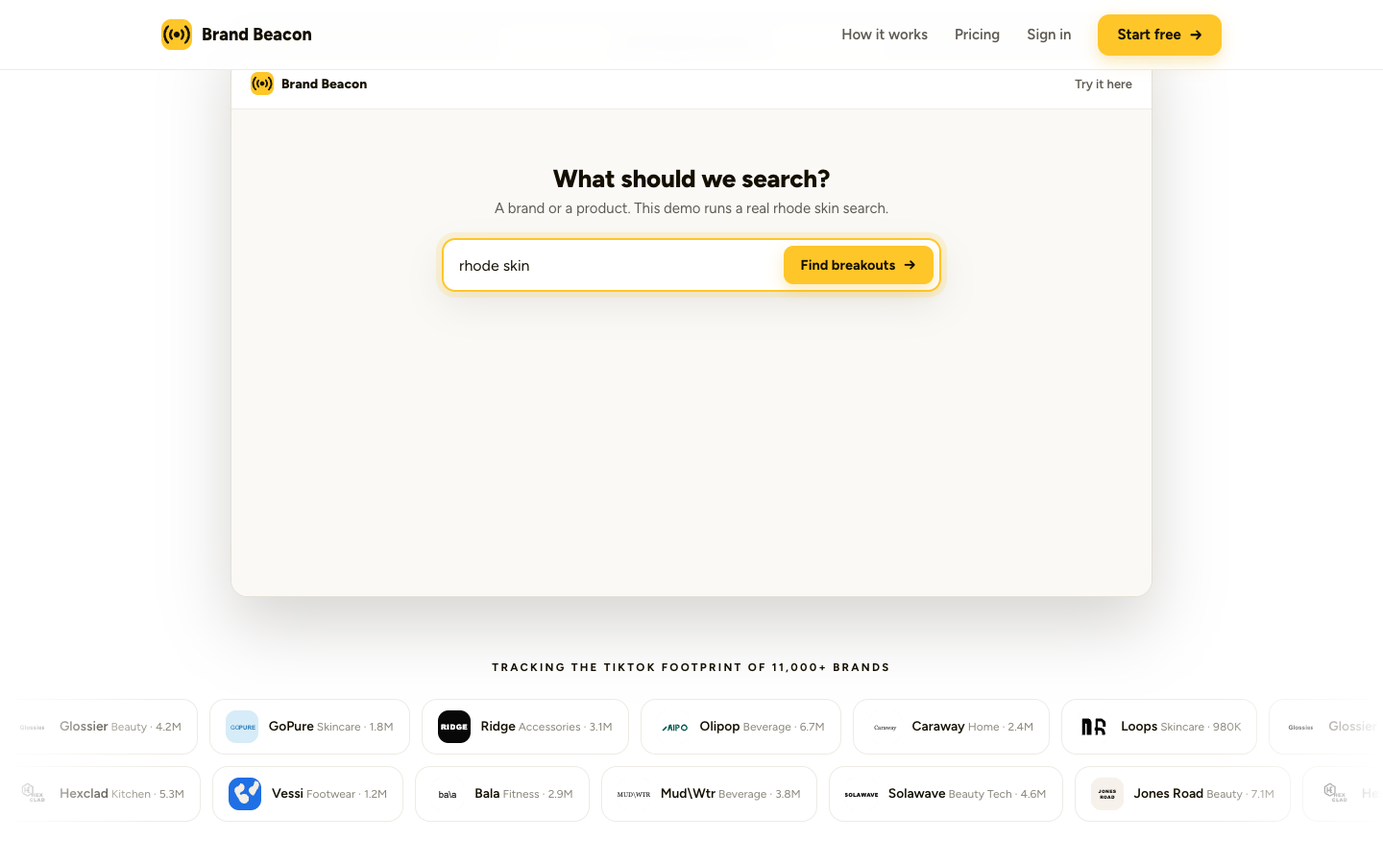
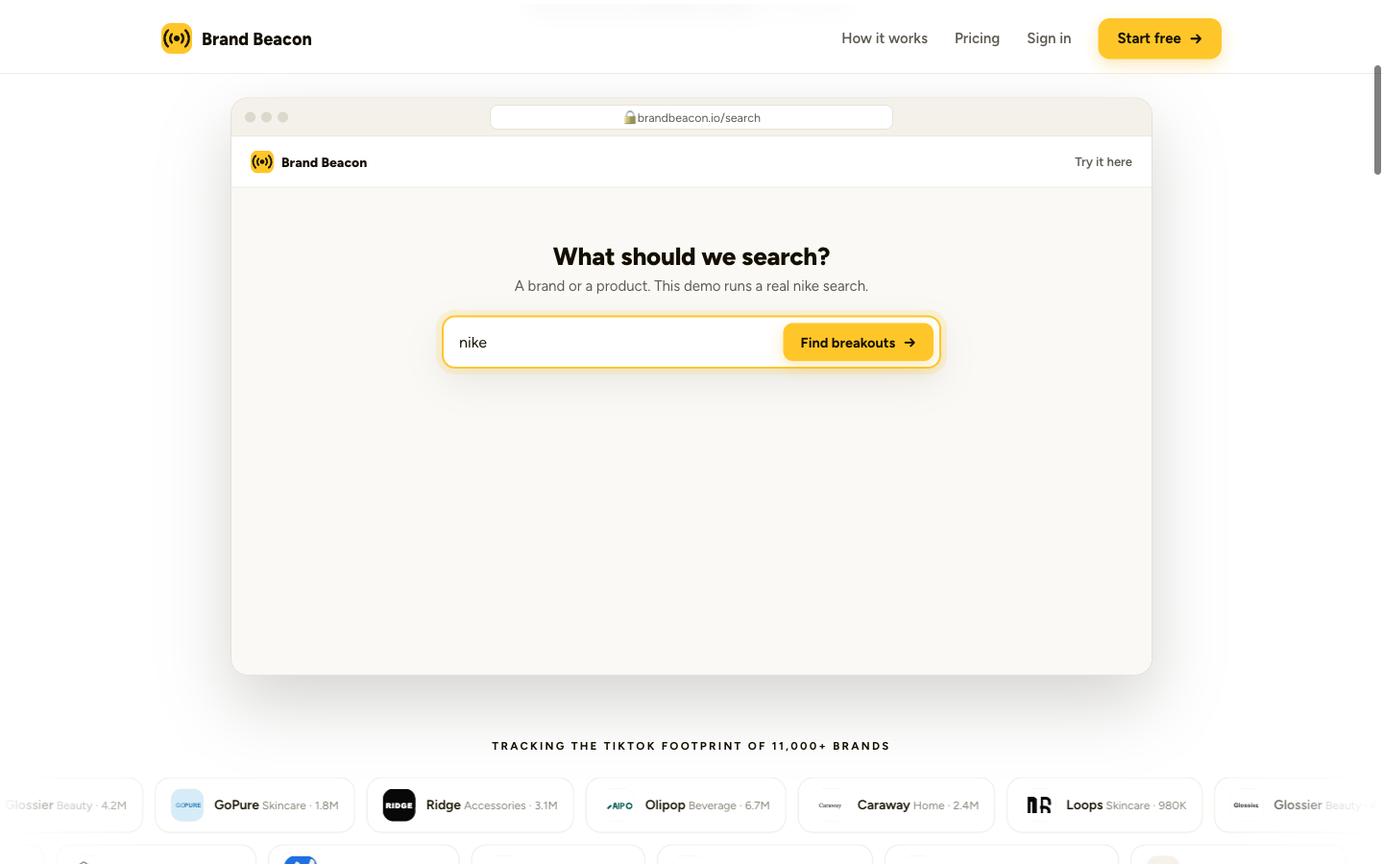
Sales page mock: Ivan's 15 Oct notes. Demo is now a real nike search led by @natali.gogaladze (7.2M views, 1.7K followers, 5.1K×), Analyze video plays the live processing state then opens her full saved analysis (Why it worked, What could be improved, What you should do next, Hook tab), shots retake

diff --git a/sales-page/index.html b/sales-page/index.html
@@ -463,6 +463,7 @@ body.notes .vbelow{display:block}
 .lc-who{display:flex;gap:9px;align-items:center}
 .lc-av{width:30px;height:30px;border-radius:50%;object-fit:cover;background:#f2dcc8;flex:0 0 auto}
 .lc-who b{display:block;font-size:13.5px;font-weight:800}
+.lc-who>span:nth-child(2){min-width:0}.lc-who b{overflow:hidden;text-overflow:ellipsis;white-space:nowrap}
 .lc-who small{display:block;font-size:11.5px;color:var(--ink3)}
 .lc-dt{margin-left:auto;align-self:flex-start;font-size:11.5px;color:var(--ink3);white-space:nowrap}
 .lc-cp{font-size:12.5px;line-height:1.45;display:-webkit-box;-webkit-line-clamp:2;-webkit-box-orient:vertical;overflow:hidden}
@@ -482,6 +483,7 @@ body.notes .vbelow{display:block}
 /* live video analysis */
 .an{display:grid;grid-template-columns:240px 1fr;gap:20px;padding:18px 20px 24px;align-items:start}
 .an-side{display:flex;flex-direction:column;gap:8px}
+.an-side .lc-dt{display:none}
 .an-ok{height:38px;border:1px solid var(--line);background:#fff;border-radius:12px;display:flex;align-items:center;justify-content:center;gap:7px;font-weight:700;font-size:13.5px}
 .an-ok svg{color:#2e8b57}
 .an-sh{height:40px;background:var(--ink);color:#fff;border-radius:12px;display:flex;align-items:center;justify-content:center;gap:8px;font-weight:600;font-size:13.5px}
@@ -510,6 +512,40 @@ body.notes .vbelow{display:block}
 .an-fade{position:relative;max-height:300px;overflow:hidden}
 .an-fade:after{content:"";position:absolute;left:0;right:0;bottom:0;height:46px;background:linear-gradient(rgba(255,255,255,0),#fff)}
 .an-gate{text-align:center;padding:26px 18px}
+/* analysis: processing (live: Analyzing video... on the card, Analyzing… in the panel) */
+@keyframes spin{to{transform:rotate(360deg)}}
+.ring{width:14px;height:14px;flex:0 0 auto;border-radius:50%;border:2px solid rgba(154,107,0,.3);border-top-color:#9a6b00;animation:spin .8s linear infinite}
+.lc-btn.busy{background:#fff8e6;color:#9a6b00;pointer-events:none}
+.an-run{height:38px;background:#fff8e6;color:#9a6b00;border-radius:12px;display:flex;align-items:center;justify-content:center;gap:8px;font-weight:700;font-size:13.5px}
+.an-proc{border:1px solid #ddd6ca;background:#fffdf9;border-radius:14px;padding:16px 18px}
+.an-proc b{display:block;font-size:11.5px;font-weight:700;letter-spacing:.12em;text-transform:uppercase;color:#8c6b10}
+.an-proc p{margin-top:6px;font-size:13.5px;line-height:1.55;color:#696257}
+.an-tabs.off{opacity:.55;pointer-events:none}
+.an-in{animation:fade .35s ease both}
+/* analysis: full structure as in the live app */
+.an-it .n.bad{background:#fdece4;color:#c2410c}
+.an-it .n.go{background:#e9f5ee;color:#1f7a4d}
+.an-foot{font-size:12px;font-style:italic;color:var(--ink3);margin-top:12px}
+.an-tr{display:flex;gap:10px;align-items:baseline;margin-top:10px;font-size:13px}
+.an-tr span{color:var(--ink3);font-variant-numeric:tabular-nums}
+.an-tr mark{background:var(--ysoft);border-radius:6px;padding:3px 7px;color:var(--ink)}
+.an-hook{align-items:flex-start}
+.an-hook .ht{position:relative;flex:0 0 auto}
+.an-hook .ht small{position:absolute;left:4px;bottom:4px;font-size:9.5px;font-weight:700;color:#fff;text-shadow:0 1px 2px rgba(0,0,0,.6)}
+.an-pat{display:flex;flex-wrap:wrap;gap:6px;margin-top:8px}
+.an-pat span{font-size:11.5px;font-weight:700;color:var(--ink2);border:1px solid var(--line);background:#f6f5f1;border-radius:7px;padding:3px 8px}
+.an-pat span:first-child{background:var(--ysoft);border-color:#f2dc95;color:var(--brown)}
+.an-bar{display:flex;height:6px;border-radius:9px;overflow:hidden;margin:12px 0 4px}
+.an-bar i{display:block}
+.an-bt{display:grid;grid-template-columns:44px 1fr;gap:10px;padding:10px 0;border-bottom:1px dashed var(--line);font-size:13px}
+.an-bt:last-child{border-bottom:0}
+.an-bt span{font-weight:800;color:#9a6b00;font-variant-numeric:tabular-nums}
+.an-bt h5{font-size:13.5px;font-weight:700}
+.an-bt p{color:var(--ink2);line-height:1.45;margin-top:2px}
+.an-rw{align-items:flex-start;background:#f6f5f1}
+.an-rw small{display:block;font-size:10.5px;font-weight:800;letter-spacing:.08em;text-transform:uppercase;color:var(--ink3);margin-bottom:3px}
+.an-rw button{flex:0 0 auto;border:1px solid var(--line);background:#fff;border-radius:8px;padding:4px 9px;color:var(--ink2)}
+.an-box.cream{background:#fffcf2}
 .an-gate h4{display:block;font-size:18px}
 .an-gate p{font-size:14px;color:var(--ink2);margin:6px auto 16px;max-width:320px;line-height:1.5}
 .an-gate .gbtn{max-width:300px;margin:0 auto;font-size:15px;padding:13px 18px}
@@ -611,7 +647,7 @@ body.notes .vbelow{display:block}
     </div>
 
     <div class="media" id="media" data-show="video">
-      <div class="note" style="top:-14px;right:-8px"><b>3</b> Hero media: compare the two with the control at the bottom. Clickable app (Ivan, 14 Oct): no keyword step, a one-second search, cards and analysis as in the live app, and 24 of the 75 breakouts behind Load more.</div>
+      <div class="note" style="top:-14px;right:-8px"><b>3</b> Hero media: compare the two with the control at the bottom. Clickable app (Ivan, 14 Oct): no keyword step, a one-second search, cards as in the live app, and 24 of the 108 breakouts behind Load more. Ivan, 15 Oct: the demo is now a real nike search led by @natali.gogaladze (7.2M views, 1.7K followers, 5.1K×): Nike product photos with one line of text over a trending sound, 8 seconds. Analyze video on it plays the live processing state for about 3 seconds, then opens its full saved analysis: Why it worked, What could be improved, What you should do next, and the Hook tab.</div>
 
       <!-- Option A: demo video -->
       <div data-pane="video">
@@ -634,28 +670,28 @@ body.notes .vbelow{display:block}
               <div class="apphead"><span class="brand"><img src="img/logo.svg" width="24" height="24" alt="">Brand Beacon</span><span class="crumb">Try it here</span></div>
               <div class="s1">
                 <h3>What should we search?</h3>
-                <p class="hint">A brand or a product. This demo runs a real rhode skin search.</p>
+                <p class="hint">A brand or a product. This demo runs a real nike search.</p>
                 <div class="inp">
-                  <input id="appInput" value="rhode skin" aria-label="Search">
+                  <input id="appInput" value="nike" aria-label="Search">
                   <button class="btn" id="appGo">Find breakouts <span class="arr">→</span></button>
                 </div>
               </div>
             </div>
 
             <div class="scr" id="s2">
-              <div class="apphead"><span class="brand"><img src="img/logo.svg" width="24" height="24" alt="">Brand Beacon</span><span class="crumb">rhode skin</span></div>
+              <div class="apphead"><span class="brand"><img src="img/logo.svg" width="24" height="24" alt="">Brand Beacon</span><span class="crumb">nike</span></div>
               <div class="s2"><div>
-                <h3>Finding breakouts for rhode skin</h3>
+                <h3>Finding breakouts for nike</h3>
                 <div class="bar"><i id="barFill"></i></div>
                 <div class="step" id="stepTxt">Pulling TikToks</div>
               </div></div>
             </div>
 
             <div class="scr" id="s3">
-              <div class="apphead"><button class="back" data-go="s1">← New search</button><span class="crumb">rhode skin</span></div>
+              <div class="apphead"><button class="back" data-go="s1">← New search</button><span class="crumb">nike</span></div>
               <div class="s3">
                 <div class="rhead">
-                  <div><h3>rhode skin</h3><p><b>75 breakouts</b> from 290 TikToks · ranked by Breakout Score</p></div>
+                  <div><h3>nike</h3><p><b>108 breakouts</b> from 346 TikToks · ranked by Breakout Score</p></div>
                   <span class="sort">Breakout Score ▾</span>
                 </div>
                 <div class="lgrid" id="grid"></div>
@@ -664,7 +700,7 @@ body.notes .vbelow{display:block}
             </div>
 
             <div class="scr" id="s4">
-              <div class="apphead"><button class="back" data-go="s3">← All breakouts</button><span class="crumb">rhode skin</span></div>
+              <div class="apphead"><button class="back" data-go="s3">← All breakouts</button><span class="crumb">nike</span></div>
               <div id="ro"></div>
             </div>
 
@@ -798,14 +834,110 @@ body.notes .vbelow{display:block}
 
 <div class="vmodal" id="vmodal" role="dialog" aria-label="TikTok video"><div class="box"><button class="x" aria-label="Close">×</button><div id="vframe" style="height:100%"></div></div></div>
 <script>
-// Real results from brandbeacon.io: the rhode skin, Dr. Scholl's and CurrentBody searches (captured 15 Oct 2026)
-const LIVE=[{"id":"7432015571165744417","s":"rhode skin","h":"@_ellapalmer_","f":"3.8K followers","score":"7.1K×","dur":"0:11","date":"Oct 31, 2024","cap":"🩸Impaled by rhode 🔪🔪🩸🔪🩸 @rhode skin @Hailey Bieber #halloween2024 #rhode #rhodelipcase #diycostume","v":"20M","l":"2.5M","c":"3.7K","sh":"192K"},{"id":"7682552825804524814","s":"rhode skin","h":"@mmoiiraaa","f":"866 followers","score":"6.4K×","dur":"0:10","date":"Sep 6","cap":"just found this out rn ngl @rhode skin #rhodephonecase #haileybieber #fyp #relatable","v":"6.1M","l":"204K","c":"345","sh":"3.7K"},{"id":"7660633484918033682","s":"rhode skin","h":"@em_ireland","f":"905 followers","score":"6.2K×","dur":"0:10","date":"Jul 9","cap":"It’s SO CUTE!! 🤎💛 #rhodehoodie #vancouverhoodie #rhodepopup #rhodehoodiesizing #limitededition @rhode skin @Hailey Bieber","v":"4.8M","l":"457K","c":"361","sh":"3.9K"},{"id":"7649935410587553055","s":"rhode skin","h":"@justemma529","f":"900 followers","score":"6K×","dur":"0:07","date":"Jun 11","cap":"the queen saved my skin thank u🫰🏻@rhode skin @Hailey Bieber #rhode #rhodeskincare #skincare","v":"4.1M","l":"632K","c":"659","sh":"5.3K"},{"id":"7605834277904796948","s":"rhode skin","h":"@jordannsagee","f":"772 followers","score":"4.2K×","dur":"0:09","date":"Feb 12","cap":"hailey bieber at george street mecca sydney!! @Hailey Bieber @rhode skin","v":"3.1M","l":"377K","c":"2.1K","sh":"11K"},{"id":"7611161983743839495","s":"rhode skin","h":"@laurenestephanny_","f":"893 followers","score":"3.6K×","dur":"0:05","date":"Feb 26","cap":"jk #fyp #viralvideo #rhode #funny #xyzbca @Hailey Bieber @rhode skin","v":"2.5M","l":"374K","c":"2.2K","sh":"39K"},{"id":"7692057826658635022","s":"rhode skin","h":"@kora.scot","f":"1K followers","score":"2.5K×","dur":"0:07","date":"Oct 2","cap":"Please why did you have to go and sell to elf…😞 #rhodeskin #inflation","v":"2.5M","l":"145K","c":"343","sh":"2.4K"},{"id":"7649209492667698445","s":"rhode skin","h":"@bricourtneyy","f":"1.2K followers","score":"1.8K×","dur":"0:08","date":"Jun 9","cap":"If he fumbles this im disowning him im literally nauseous about it #rhodesummercollection #rhodeskin #rhode #haileybieber @rhode skin #greenscreen","v":"1.7M","l":"206K","c":"676","sh":"2.4K"},{"id":"7675437551536196886","s":"rhode skin","h":"@elizaveta_beauty_","f":"3.2K followers","score":"1.8K×","dur":"0:05","date":"Aug 18","cap":"Just being honest 😂 @rhode skin #rhode#skincare#beauty#sephora#girly","v":"3.7M","l":"672K","c":"557","sh":"107K"},{"id":"7629686756895411478","s":"rhode skin","h":"@caseyjaywalsh","f":"931 followers","score":"1.2K×","dur":"0:05","date":"Apr 17","cap":"put the wrong lid on my blush and ruined it:( @rhode skin #justinbieber #haileybieber #coachella #rhode","v":"1M","l":"56K","c":"192","sh":"878"},{"id":"7694297306266455326","s":"rhode skin","h":"@kairahyang11","f":"1.8K followers","score":"1.2K×","dur":"0:10","date":"Oct 8","cap":"Best believe I’m grabbing a set!! @rhode skin #rhodeskin #rhode #haileybieber #holidaysets","v":"2.8M","l":"408K","c":"697","sh":"89K"},{"id":"7672213649234185493","s":"rhode skin","h":"@bellawoj","f":"2.3K followers","score":"1.1K×","dur":"0:08","date":"Aug 10","cap":"current rating of all my Rhode lippies!! @rhode skin 🤍#rhodeliptint #rhodereview","v":"1.9M","l":"183K","c":"328","sh":"5.9K"},{"id":"7610133460639894805","s":"rhode skin","h":"@sleeepyygirl","f":"1.1K followers","score":"1.1K×","dur":"0:19","date":"Feb 23","cap":"current obsession🤍 #rhode #haileybieber #skincare #moodboard @rhode skin @Hailey Bieber","v":"1M","l":"39K","c":"206","sh":"1K"},{"id":"7679232197068442902","s":"rhode skin","h":"@the.ericaedit","f":"1.1K followers","score":"1K×","dur":"0:06","date":"Aug 28","cap":"Cheers @rhode skin £32 pounds for acne #fyp #rhode #acne #rhodeskin","v":"1M","l":"28K","c":"102","sh":"2.1K"},{"id":"7665807781416406304","s":"rhode skin","h":"@aline.ldn","f":"2.3K followers","score":"992×","dur":"0:07","date":"Jul 23","cap":"Finally being able to shop rhode @sephora as a European >>> ; #losangeles #haileybieber #rhode #rhodeskin #rhodesianridgeback","v":"1.6M","l":"216K","c":"324","sh":"14K"},{"id":"7631725078824193310","s":"rhode skin","h":"@arimirmontazeri","f":"8.1K followers","score":"944×","dur":"0:10","date":"Apr 22","cap":"that’ll do it @Hailey Bieber @rhode skin #lipgloss #fyp #funny","v":"5.6M","l":"665K","c":"608","sh":"5K"},{"id":"7652702029457984790","s":"rhode skin","h":"@leahcandid","f":"1.4K followers","score":"942×","dur":"0:05","date":"Jun 18","cap":"@rhode skin that glazing milk looks so good I wanna drink it @Sephora UK pls restock #rhode #rhodeskin #sephora","v":"1M","l":"102K","c":"281","sh":"3.4K"},{"id":"7675310313461271830","s":"rhode skin","h":"@tamusss86","f":"2.7K followers","score":"905×","dur":"0:10","date":"Aug 18","cap":"I'm so exiteddd! #foryou #rhode #viral@rhode skin @Sephora Czech Republic","v":"1.6M","l":"283K","c":"1.3K","sh":"21K"},{"id":"7586369034757754134","s":"rhode skin","h":"@jyo_witha_thi_","f":"5.7K followers","score":"849×","dur":"0:11","date":"Dec 21, 2025","cap":"Omggggg!!! I’ve been waiting for this moment foreverrrr!!!! It’s such a cuteeee lil addition 😍🩷✨ @rhode skin @Hailey Bieber . . . #rhode #lippeptide #iphone17promax #fyp #foryoupage","v":"4.4M","l":"146K","c":"286","sh":"14K"},{"id":"7676940843554508052","s":"rhode skin","h":"@.haileyex","f":"4K followers","score":"822×","dur":"0:15","date":"Aug 22","cap":"They really have a talent for turning the most random things into trends. 😭✨ @Kylie Jenner @Kylie Cosmetics @Hailey Bieber @rhode skin #kyliejenner #haileybieber #beautytrends #viraltrends #rhode","v":"2.4M","l":"279K","c":"668","sh":"7K"},{"id":"7646864865889488141","s":"rhode skin","h":"@ceciliamicole","f":"2.5K followers","score":"784×","dur":"0:18","date":"Jun 2","cap":"effortlessly pretty is what i was trying to say i think #rhode #rhodebronzer #newrhode #rhodeskin #haileybieber","v":"1.4M","l":"170K","c":"1.6K","sh":"3.1K"},{"id":"7688771496407239958","s":"rhode skin","h":"@amberatelier","f":"3.1K followers","score":"539×","dur":"0:05","date":"Sep 23","cap":"Well, at least it looks pretty, right? . . . . . . . . . . . . . . . . . . . . . . . . . . . . . . . . . . . . . . . . . . . . . . . . #rhodeskin #cartok #relatable #funny #rhode @rhode skin","v":"1.5M","l":"59K","c":"164","sh":"159"},{"id":"7668300461455248672","s":"rhode skin","h":"@carolinafulgencio_","f":"9.6K followers","score":"501×","dur":"0:05","date":"Jul 30","cap":"trust issues, beach edition @rhode skin @Hailey Bieber #rhode #rhodeskin #beach #vilamoura #fyp","v":"4.1M","l":"252K","c":"129","sh":"760"},{"id":"7673427962720472342","s":"rhode skin","h":"@bunnyshuhui","f":"6.5K followers","score":"444×","dur":"0:11","date":"Aug 13","cap":"@rhode skin pocket blush sleepy girl @Rare Beauty liquid blush encourage @Saie dew blush lady @Makeup By Mario soft pop blush stick dusty rose Not a paid partnership #blush #rhode #makeup #blushreview #rarebeauty","v":"3M","l":"105K","c":"196","sh":"3.1K"},{"id":"7667704326613159182","s":"Dr. Scholl's","h":"@makaylasargent13","f":"7.5K followers","score":"358×","dur":"0:21","date":"Jul 28","cap":"they also come in wide calf !!! #drsbacktocampus #DrSchollsNewArrivals #fallfashion #fallboots #drscholls","v":"2.6M","l":"29K","c":"88","sh":"1.4K"},{"id":"7570361891399142670","s":"CurrentBody","h":"@by_swetha","f":"890 followers","score":"93×","dur":"0:10","date":"Nov 8, 2025","cap":"@currentbody Led series 1 face mask is on sale for $150 at Sam's club. They have several other devices on sale too. This is the best deal for led mask. highly recommend getting it #ledfacemask #currentbody #bestdeal","v":"89K","l":"1.2K","c":"30","sh":"436"}];
-// Live analysis of the top rhode skin breakout (@_ellapalmer_), word for word from the capture
-const WHY=[
- ['Immediate Visual Shock',"The video opens with a striking visual that matches the hook's promise, grabbing attention instantly and encouraging continued viewing."],
- ['Celebrity Association','Mentioning @Hailey Bieber and @rhode skin connects the content to recognizable figures, boosting credibility and shareability.'],
- ['Seasonal Relevance','The Halloween theme aligns with current seasonal interests, increasing the likelihood of shares and']
-];
+// Real results from brandbeacon.io: the rhode skin, nike, Dr. Scholl's and CurrentBody searches (captured 15 Oct 2026)
+const LIVE=[{"id":"7432015571165744417","s":"rhode skin","h":"@_ellapalmer_","f":"3.8K followers","score":"7.1K×","dur":"0:11","date":"Oct 31, 2024","cap":"🩸Impaled by rhode 🔪🔪🩸🔪🩸 @rhode skin @Hailey Bieber #halloween2024 #rhode #rhodelipcase #diycostume","v":"20M","l":"2.5M","c":"3.7K","sh":"192K"},{"id":"7682552825804524814","s":"rhode skin","h":"@mmoiiraaa","f":"866 followers","score":"6.4K×","dur":"0:10","date":"Sep 6","cap":"just found this out rn ngl @rhode skin #rhodephonecase #haileybieber #fyp #relatable","v":"6.1M","l":"204K","c":"345","sh":"3.7K"},{"id":"7660633484918033682","s":"rhode skin","h":"@em_ireland","f":"905 followers","score":"6.2K×","dur":"0:10","date":"Jul 9","cap":"It’s SO CUTE!! 🤎💛 #rhodehoodie #vancouverhoodie #rhodepopup #rhodehoodiesizing #limitededition @rhode skin @Hailey Bieber","v":"4.8M","l":"457K","c":"361","sh":"3.9K"},{"id":"7649935410587553055","s":"rhode skin","h":"@justemma529","f":"900 followers","score":"6K×","dur":"0:07","date":"Jun 11","cap":"the queen saved my skin thank u🫰🏻@rhode skin @Hailey Bieber #rhode #rhodeskincare #skincare","v":"4.1M","l":"632K","c":"659","sh":"5.3K"},{"id":"7605834277904796948","s":"rhode skin","h":"@jordannsagee","f":"772 followers","score":"4.2K×","dur":"0:09","date":"Feb 12","cap":"hailey bieber at george street mecca sydney!! @Hailey Bieber @rhode skin","v":"3.1M","l":"377K","c":"2.1K","sh":"11K"},{"id":"7611161983743839495","s":"rhode skin","h":"@laurenestephanny_","f":"893 followers","score":"3.6K×","dur":"0:05","date":"Feb 26","cap":"jk #fyp #viralvideo #rhode #funny #xyzbca @Hailey Bieber @rhode skin","v":"2.5M","l":"374K","c":"2.2K","sh":"39K"},{"id":"7692057826658635022","s":"rhode skin","h":"@kora.scot","f":"1K followers","score":"2.5K×","dur":"0:07","date":"Oct 2","cap":"Please why did you have to go and sell to elf…😞 #rhodeskin #inflation","v":"2.5M","l":"145K","c":"343","sh":"2.4K"},{"id":"7649209492667698445","s":"rhode skin","h":"@bricourtneyy","f":"1.2K followers","score":"1.8K×","dur":"0:08","date":"Jun 9","cap":"If he fumbles this im disowning him im literally nauseous about it #rhodesummercollection #rhodeskin #rhode #haileybieber @rhode skin #greenscreen","v":"1.7M","l":"206K","c":"676","sh":"2.4K"},{"id":"7675437551536196886","s":"rhode skin","h":"@elizaveta_beauty_","f":"3.2K followers","score":"1.8K×","dur":"0:05","date":"Aug 18","cap":"Just being honest 😂 @rhode skin #rhode#skincare#beauty#sephora#girly","v":"3.7M","l":"672K","c":"557","sh":"107K"},{"id":"7629686756895411478","s":"rhode skin","h":"@caseyjaywalsh","f":"931 followers","score":"1.2K×","dur":"0:05","date":"Apr 17","cap":"put the wrong lid on my blush and ruined it:( @rhode skin #justinbieber #haileybieber #coachella #rhode","v":"1M","l":"56K","c":"192","sh":"878"},{"id":"7694297306266455326","s":"rhode skin","h":"@kairahyang11","f":"1.8K followers","score":"1.2K×","dur":"0:10","date":"Oct 8","cap":"Best believe I’m grabbing a set!! @rhode skin #rhodeskin #rhode #haileybieber #holidaysets","v":"2.8M","l":"408K","c":"697","sh":"89K"},{"id":"7672213649234185493","s":"rhode skin","h":"@bellawoj","f":"2.3K followers","score":"1.1K×","dur":"0:08","date":"Aug 10","cap":"current rating of all my Rhode lippies!! @rhode skin 🤍#rhodeliptint #rhodereview","v":"1.9M","l":"183K","c":"328","sh":"5.9K"},{"id":"7610133460639894805","s":"rhode skin","h":"@sleeepyygirl","f":"1.1K followers","score":"1.1K×","dur":"0:19","date":"Feb 23","cap":"current obsession🤍 #rhode #haileybieber #skincare #moodboard @rhode skin @Hailey Bieber","v":"1M","l":"39K","c":"206","sh":"1K"},{"id":"7679232197068442902","s":"rhode skin","h":"@the.ericaedit","f":"1.1K followers","score":"1K×","dur":"0:06","date":"Aug 28","cap":"Cheers @rhode skin £32 pounds for acne #fyp #rhode #acne #rhodeskin","v":"1M","l":"28K","c":"102","sh":"2.1K"},{"id":"7665807781416406304","s":"rhode skin","h":"@aline.ldn","f":"2.3K followers","score":"992×","dur":"0:07","date":"Jul 23","cap":"Finally being able to shop rhode @sephora as a European >>> ; #losangeles #haileybieber #rhode #rhodeskin #rhodesianridgeback","v":"1.6M","l":"216K","c":"324","sh":"14K"},{"id":"7631725078824193310","s":"rhode skin","h":"@arimirmontazeri","f":"8.1K followers","score":"944×","dur":"0:10","date":"Apr 22","cap":"that’ll do it @Hailey Bieber @rhode skin #lipgloss #fyp #funny","v":"5.6M","l":"665K","c":"608","sh":"5K"},{"id":"7652702029457984790","s":"rhode skin","h":"@leahcandid","f":"1.4K followers","score":"942×","dur":"0:05","date":"Jun 18","cap":"@rhode skin that glazing milk looks so good I wanna drink it @Sephora UK pls restock #rhode #rhodeskin #sephora","v":"1M","l":"102K","c":"281","sh":"3.4K"},{"id":"7675310313461271830","s":"rhode skin","h":"@tamusss86","f":"2.7K followers","score":"905×","dur":"0:10","date":"Aug 18","cap":"I'm so exiteddd! #foryou #rhode #viral@rhode skin @Sephora Czech Republic","v":"1.6M","l":"283K","c":"1.3K","sh":"21K"},{"id":"7586369034757754134","s":"rhode skin","h":"@jyo_witha_thi_","f":"5.7K followers","score":"849×","dur":"0:11","date":"Dec 21, 2025","cap":"Omggggg!!! I’ve been waiting for this moment foreverrrr!!!! It’s such a cuteeee lil addition 😍🩷✨ @rhode skin @Hailey Bieber . . . #rhode #lippeptide #iphone17promax #fyp #foryoupage","v":"4.4M","l":"146K","c":"286","sh":"14K"},{"id":"7676940843554508052","s":"rhode skin","h":"@.haileyex","f":"4K followers","score":"822×","dur":"0:15","date":"Aug 22","cap":"They really have a talent for turning the most random things into trends. 😭✨ @Kylie Jenner @Kylie Cosmetics @Hailey Bieber @rhode skin #kyliejenner #haileybieber #beautytrends #viraltrends #rhode","v":"2.4M","l":"279K","c":"668","sh":"7K"},{"id":"7646864865889488141","s":"rhode skin","h":"@ceciliamicole","f":"2.5K followers","score":"784×","dur":"0:18","date":"Jun 2","cap":"effortlessly pretty is what i was trying to say i think #rhode #rhodebronzer #newrhode #rhodeskin #haileybieber","v":"1.4M","l":"170K","c":"1.6K","sh":"3.1K"},{"id":"7688771496407239958","s":"rhode skin","h":"@amberatelier","f":"3.1K followers","score":"539×","dur":"0:05","date":"Sep 23","cap":"Well, at least it looks pretty, right? . . . . . . . . . . . . . . . . . . . . . . . . . . . . . . . . . . . . . . . . . . . . . . . . #rhodeskin #cartok #relatable #funny #rhode @rhode skin","v":"1.5M","l":"59K","c":"164","sh":"159"},{"id":"7668300461455248672","s":"rhode skin","h":"@carolinafulgencio_","f":"9.6K followers","score":"501×","dur":"0:05","date":"Jul 30","cap":"trust issues, beach edition @rhode skin @Hailey Bieber #rhode #rhodeskin #beach #vilamoura #fyp","v":"4.1M","l":"252K","c":"129","sh":"760"},{"id":"7673427962720472342","s":"rhode skin","h":"@bunnyshuhui","f":"6.5K followers","score":"444×","dur":"0:11","date":"Aug 13","cap":"@rhode skin pocket blush sleepy girl @Rare Beauty liquid blush encourage @Saie dew blush lady @Makeup By Mario soft pop blush stick dusty rose Not a paid partnership #blush #rhode #makeup #blushreview #rarebeauty","v":"3M","l":"105K","c":"196","sh":"3.1K"},{"id":"7667704326613159182","s":"Dr. Scholl's","h":"@makaylasargent13","f":"7.5K followers","score":"358×","dur":"0:21","date":"Jul 28","cap":"they also come in wide calf !!! #drsbacktocampus #DrSchollsNewArrivals #fallfashion #fallboots #drscholls","v":"2.6M","l":"29K","c":"88","sh":"1.4K"},{"id":"7570361891399142670","s":"CurrentBody","h":"@by_swetha","f":"890 followers","score":"93×","dur":"0:10","date":"Nov 8, 2025","cap":"@currentbody Led series 1 face mask is on sale for $150 at Sam's club. They have several other devices on sale too. This is the best deal for led mask. highly recommend getting it #ledfacemask #currentbody #bestdeal","v":"89K","l":"1.2K","c":"30","sh":"436"},{"id":"7573697125595303186","s":"nike","h":"@natali.gogaladze","f":"1.7K followers","score":"5.1K×","dur":"0:08","date":"Nov 17, 2025","cap":"nike #nike #nata #brand #fyp #foryoupage","v":"7.2M","l":"317K","c":"44K","sh":"5.7K"},{"id":"7673863358721920278","s":"nike","h":"@arthurs_51","f":"500 followers","score":"5.1K×","dur":"0:08","date":"Aug 14","cap":"#nike why so many p-6000 #blowthisup #AS11 #fyp","v":"4.9M","l":"58K","c":"1.7K","sh":"7.4K"},{"id":"7658843442696523039","s":"nike","h":"@smoothsailing3500","f":"5.8K followers","score":"2.3K×","dur":"0:35","date":"Jul 5","cap":"Nike look what we have here!😂😂😂#nike #shoes #funny #viral","v":"13M","l":"251K","c":"19K","sh":"210K"},{"id":"7686663477691305229","s":"nike","h":"@rylanroskom","f":"1K followers","score":"2.2K×","dur":"0:09","date":"Sep 18","cap":"I js want Nike calms#tiktok#nikeslides#rylanroskom#viral#fyp","v":"2M","l":"67K","c":"1.1K","sh":"564"},{"id":"7631200726949170464","s":"nike","h":"@f4nn1.2","f":"533 followers","score":"1.9K×","dur":"0:15","date":"Apr 21","cap":"Neue SCHUHEE😮💨❤#nike#shoes#pretty#new#binverliebtt","v":"1.6M","l":"119K","c":"646","sh":"4K"},{"id":"7405514783098686763","s":"nike","h":"@nike69753","f":"2.6K followers","score":"1.9K×","dur":"1:10","date":"Aug 21, 2024","cap":"Japanese beauty eating bread challenge","v":"7.3M","l":"67K","c":"2.3K","sh":"13K"},{"id":"7630200374590278925","s":"nike","h":"@midowash","f":"1.8K followers","score":"1.9K×","dur":"0:12","date":"Apr 18","cap":"fr #nike #socks #fyp #xybzca #dirty","v":"2.4M","l":"268K","c":"1.7K","sh":"26K"},{"id":"7693631783031590157","s":"nike","h":"@brenda.19","f":"2.2K followers","score":"1.4K×","dur":"0:08","date":"Oct 6","cap":"Nike v5 rnr ✨😍 #nike #fallshoes #fyp #fallvibes🍂  #obssessed","v":"2.4M","l":"266K","c":"926","sh":"69K"},{"id":"7611811174178491661","s":"nike","h":"@jimbo_golfs747","f":"1.9K followers","score":"1.3K×","dur":"0:07","date":"Feb 28","cap":"Nike Logo Golf Swing #relatablegolfcontent #golftiktok #golfswing #nikegolf #golffyp","v":"1.8M","l":"230K","c":"759","sh":"3.5K"},{"id":"7617183904096619798","s":"nike","h":"@trendy.shoes94","f":"665 followers","score":"962×","dur":"0:09","date":"Mar 14","cap":"new#nike  mind 001🤍#luxurylifestyle #comfortable #slipper","v":"917K","l":"15K","c":"96","sh":"4.5K"},{"id":"7473242554805439790","s":"nike","h":"@not.mj101","f":"1.6K followers","score":"905×","dur":"0:25","date":"Feb 19, 2025","cap":"Yo😭 #help #special #sus #edit #football #nike #nikepro","v":"1.4M","l":"1.9K","c":"215","sh":"39"},{"id":"7614678667116989710","s":"nike","h":"@ty_thep","f":"9.2K followers","score":"837×","dur":"0:14","date":"Mar 8","cap":"Send me a new ball @Nike #nikemind","v":"7M","l":"229K","c":"2.8K","sh":"15K"},{"id":"7596400167058820383","s":"nike","h":"@lena_janelle","f":"832 followers","score":"824×","dur":"0:06","date":"Jan 17","cap":"Proof the Nike Mind 001 runs SUPER small. This is my “true size,” and look how tight it fits. I sized up two sizes and they fit perfectly.","v":"805K","l":"5.7K","c":"290","sh":"1.3K"},{"id":"7623415231636573461","s":"nike","h":"@melll.y_","f":"928 followers","score":"824×","dur":"0:08","date":"Mar 31","cap":"got ma bby 🩶🖤 #nike #nikep6000","v":"768K","l":"18K","c":"171","sh":"1.9K"},{"id":"7656409075881741601","s":"nike","h":"@kjkwlfme","f":"18K followers","score":"819×","dur":"0:17","date":"Jun 28","cap":"Tn shoes.#fyp #nike #tn #sneakers #streewear","v":"13M","l":"601K","c":"1.7K","sh":"30K"},{"id":"7398115879881411847","s":"nike","h":"@nedofunny","f":"33K followers","score":"725×","dur":"0:14","date":"Aug 1, 2024","cap":"Nike pro🙄 #nikepro #популярное #popular #ехалядомойсработы #мемвстилеприкол","v":"23M","l":"476K","c":"2.6K","sh":"159K"},{"id":"7667238103827959070","s":"nike","h":"@elite.overload","f":"2.1K followers","score":"556×","dur":"0:08","date":"Jul 27","cap":"Why does Nike do this 😭😭 #fyp #nikeelite #basketballbag #nikevarsityelite #nikebag","v":"907K","l":"78K","c":"716","sh":"3.6K"},{"id":"7658353099689512224","s":"nike","h":"@user_intrv48","f":"1.8K followers","score":"537×","dur":"0:07","date":"Jul 3","cap":"Nike>adidas#nike #niketechfleece","v":"778K","l":"68K","c":"553","sh":"3K"},{"id":"7634692256556961037","s":"nike","h":"@cat.mcgavic","f":"13K followers","score":"454×","dur":"0:08","date":"Apr 30","cap":"i’ve BEEN waiting  #nikepro #nike #fyp @Nike","v":"4.5M","l":"512K","c":"1.7K","sh":"8.5K"},{"id":"7629388865228393748","s":"nike","h":"@discoverafricanbrands","f":"2.9K followers","score":"434×","dur":"0:09","date":"Apr 16","cap":"Grace Ladoja 🇳🇬 just made history by becoming the first African woman to design a shoe with Nike! ✨ | #nike #nigeriatiktok #nigeriatiktok🇳🇬🇳🇬🇳🇬 #shoes #sneakers @grace ladoja","v":"878K","l":"126K","c":"1.7K","sh":"2.9K"},{"id":"7600786880652823816","s":"nike","h":"@msma644","f":"15K followers","score":"412×","dur":"0:27","date":"Jan 29","cap":"Nike Air Pressure shoes are considered rare. 👟✨#foryoupageofficiall #virallll #grow #nike","v":"5.7M","l":"87K","c":"1.7K","sh":"4.7K"},{"id":"7696300872187251998","s":"nike","h":"@alejandra_martinez209","f":"2.3K followers","score":"403×","dur":"0:15","date":"Oct 13","cap":"Finally got them🐆 Nike V5 RNR#fall #sneakerhead #fyp @Nike","v":"722K","l":"63K","c":"190","sh":"18K"},{"id":"7684281681888513302","s":"nike","h":"@marjozoa0mk","f":"12K followers","score":"401×","dur":"0:14","date":"Sep 11","cap":"Nike mind 001🩵🩵🩵#fyp #senakers #virle #nikemind001 #nike","v":"4.1M","l":"204K","c":"703","sh":"12K"},{"id":"7666716715971104030","s":"nike","h":"@lovvveval","f":"4.5K followers","score":"387×","dur":"0:11","date":"Jul 26","cap":"@DICK'S Sporting Goods @Nike #nikeproshorts #LoveVal #nike #fyp","v":"1.2M","l":"174K","c":"558","sh":"13K"}];
+// Saved analysis of the top nike breakout (@natali.gogaladze), word for word from the live app
+const AN={
+"why": [
+[
+"Brand Signal",
+"The explicit mention of 'nike' and related hashtags draws in viewers searching for or interested in this brand, boosting initial engagement."
+],
+[
+"Trend-Driven Sound",
+"The slowed version of 'Meet Her At The Love Parade' aligns with TikTok sound trends, increasing shareability and watch time."
+],
+[
+"Short Duration",
+"An 8-second length encourages full views and repeat watches, maximizing retention and engagement metrics."
+],
+[
+"Hashtag Amplification",
+"The cluster of hashtags broadens reach across multiple trending topics, increasing the chance of viral spread."
+]
+],
+"drags": [
+[
+"Lack of Visual Hook",
+"The transcript and metadata do not indicate a strong visual or narrative hook, which may limit deeper emotional engagement."
+],
+[
+"Hashtag Reliance",
+"Heavy dependence on hashtags and sound trends may reduce uniqueness, making it harder to replicate viral success without similar conditions."
+]
+],
+"next": [
+[
+"Lead with a Recognizable Brand or Trend",
+"Start your video or caption by mentioning a popular brand or trending topic relevant to your audience to immediately capture attention and signal content relevance."
+],
+[
+"Use a Cluster of Related Hashtags",
+"Include multiple related hashtags that broaden your content’s discoverability across different but connected interest areas, increasing the chance of viral spread."
+],
+[
+"Align Content Rhythm with a Trendy Sound",
+"Choose a popular or trending audio track, preferably one with a distinctive rhythm or slowed tempo, to create a hypnotic flow that encourages viewers to watch repeatedly."
+],
+[
+"Keep It Short and Repeatable",
+"Produce concise videos (around 8 seconds) that are easy to consume and rewatch, maximizing retention and engagement metrics."
+]
+],
+"hook": "nike #nike #nata #brand #fyp #foryoupage",
+"pat": [
+"Hashtag cluster",
+"Brand name lead",
+"Trend sound aligned",
+"Short text format"
+],
+"stop": [
+[
+"Trend Association",
+"Using the popular brand hashtag 'nike' immediately attracts viewers interested in that brand or trending content."
+],
+[
+"Hashtag Clustering",
+"Multiple related hashtags increase discoverability and signal content relevance across several popular categories."
+],
+[
+"Brevity and Rhythm",
+"The concise, rhythmic repetition of hashtags matches the slowed music, creating a hypnotic effect that hooks viewers quickly."
+]
+],
+"beats": [
+[
+"0:00",
+"Brand mention",
+"The word 'nike' is the first element, immediately signaling the video's topic."
+],
+[
+"0:01",
+"Hashtag repetition",
+"Repeating '#nike' reinforces the brand focus and hooks viewers searching for this tag."
+],
+[
+"0:02",
+"Hashtag expansion",
+"Additional hashtags '#nata', '#brand', '#fyp', and '#foryoupage' broaden the video's reach and relevance."
+]
+],
+"swipe": [
+[
+"Avoids brand fatigue",
+"Check out this fresh take on #nike vibes #nata #brand #fyp"
+],
+[
+"More curiosity",
+"Why is everyone talking about #nike right now? #nata #brand #foryoupage"
+],
+[
+"Less hashtag clutter",
+"Nike style, but with a twist #nata #brand #fyp"
+]
+],
+"tr": "nike #nike #nata #brand #fyp #foryoupage"
+};
 const $=s=>document.querySelector(s);
 const esc=t=>t.replace(/[&<>"]/g,c=>({'&':'&amp;','<':'&lt;','>':'&gt;','"':'&quot;'}[c]));
 const capH=t=>esc(t).replace(/([#@][\w.À-ɏ]+)/g,'<em>$1</em>');
@@ -844,23 +976,49 @@ function run(){
 }
 $('#appGo').onclick=run;$('#appInput').addEventListener('keydown',e=>{if(e.key==='Enter')run()});
 
-// results grid: 12 cards, Load more shows 12 more
-const RH=LIVE.filter(v=>v.s==='rhode skin');let shown=0;
-function more(n){const end=Math.min(shown+n,RH.length);$('#grid').insertAdjacentHTML('beforeend',RH.slice(shown,end).map((v,k)=>card(v,{i:shown+k,rank:shown+k+1,done:shown+k===0})).join(''));shown=end;
-  if(shown>=RH.length)$('#more').innerHTML=`Showing ${shown} of 75 breakouts.<a class="mbtn y js-go" href="#search">See them all free →</a>`}
+// results grid: 12 cards, Load more shows 12 more (the nike search; RH stays for the wall)
+const RH=LIVE.filter(v=>v.s==='rhode skin'),NK=LIVE.filter(v=>v.s==='nike');let shown=0,anDone=false,anBusy=false;
+function more(n){const end=Math.min(shown+n,NK.length);$('#grid').insertAdjacentHTML('beforeend',NK.slice(shown,end).map((v,k)=>card(v,{i:shown+k,rank:shown+k+1,done:shown+k===0&&anDone})).join(''));shown=end;
+  if(shown>=NK.length)$('#more').innerHTML=`Showing ${shown} of 108 breakouts.<a class="mbtn y js-go" href="#search">See them all free →</a>`}
 more(12);$('#loadMore').onclick=()=>more(12);
-$('#grid').addEventListener('click',e=>{const c=e.target.closest('.lc');if(!c||e.target.closest('.lc-bm'))return;openRO(+c.dataset.i)});
+$('#grid').addEventListener('click',e=>{const c=e.target.closest('.lc');if(!c||e.target.closest('.lc-bm'))return;e.preventDefault();e.stopPropagation();const i=+c.dataset.i;
+  if(i===0&&!anDone)analyze();else openRO(i)},true);
 
-function openRO(i){
-  const v=RH[i];const list=(a,pad)=>a.map((d,k)=>`<div class="an-it"><span class="n">${pad?String(k+1).padStart(2,'0'):k+1}</span><div><h5>${d[0]}</h5><p>${esc(d[1])}</p></div></div>`).join('');
-  const side=`<div class="an-side">${card(v,{rank:i+1,noAct:true})}${i===0?`<div class="an-ok">${IC.ok} Analysis ready</div><div class="an-sh">${IC.sh} Share with your team and creators</div>`:''}</div>`;
-  const right=i===0?`<div><p class="an-q">“${capH(v.cap)}”</p>
-    <div class="an-ban"><span>ⓘ</span><span><b>${v.score} Breakout Score:</b> how far this video beat ${esc(v.h)}'s average video.</span></div>
-    <div class="an-box an-fade"><h4>Why it worked <small>4 drivers</small></h4>${list(WHY,1)}</div></div>`
-   :`<div class="an-box an-gate"><h4>Analyze this video</h4><p>See why ${esc(v.h)}'s video broke out and what to do next for your brand. Free includes 5 video analyses.</p>
+// Analyze video on card 1: the card button spins, the analysis opens in its processing state, then fills in
+function analyze(){if(anBusy)return;anBusy=true;
+  const b=$('#grid .lc[data-i="0"] .lc-btn');if(b){b.classList.add('busy');b.innerHTML='<span class="ring"></span>Analyzing video...'}
+  setTimeout(()=>{openRO(0,1);setTimeout(()=>{anDone=true;anBusy=false;
+    if(b){b.classList.remove('busy');b.classList.add('dark');b.innerHTML=`${IC.ok} View analysis →`}
+    if($('#s4').classList.contains('on'))openRO(0)},2200)},600)}
+
+function openRO(i,running){
+  const v=NK[i],n2=k=>String(k+1).padStart(2,'0');
+  const list=(a,num,cls)=>a.map((d,k)=>`<div class="an-it"><span class="n${cls?' '+cls:''}">${num(k)}</span><div><h5>${esc(d[0])}</h5><p>${esc(d[1])}</p></div></div>`).join('');
+  const one=k=>k+1;
+  const pill=i!==0?'':running?`<div class="an-run"><span class="ring"></span>Analyzing…</div>`:`<div class="an-ok">${IC.ok} Analysis ready</div>`;
+  const side=`<div class="an-side">${card(v,{rank:i+1,noAct:true})}${pill}${i===0?`<div class="an-sh">${IC.sh} Share with your team and creators</div>`:''}</div>`;
+  const head=`<p class="an-q">“${capH(v.cap)}”</p>
+    <div class="an-ban"><span>ⓘ</span><span><b>${v.score} Breakout Score:</b> how far this video beat ${esc(v.h)}'s average video.</span></div>`;
+  let right;
+  if(i!==0)right=`<div class="an-box an-gate"><h4>Analyze this video</h4><p>See why ${esc(v.h)}'s video broke out and what to do next for your brand. Free includes 5 video analyses.</p>
       <a class="gbtn" href="../bb-3/app.html#home-checklist"><span class="g">${$('#signin .gbtn .g').innerHTML}</span>Sign in free to analyze</a></div>`;
+  else if(running)right=`<div>${head}<div class="an-tabs off"><button class="on">Why it worked</button><button>Hook</button></div>
+    <div class="an-proc"><b>Processing</b><p>We are preparing the transcript, shared diagnostics, and creator-facing guidance.</p></div></div>`;
+  else right=`<div class="an-in">${head}
+    <div class="an-tabs" id="roTabs"><button class="on" data-t="why">Why it worked</button><button data-t="hook">Hook</button></div>
+    <div id="tWhy"><div class="an-box"><h4>Why it worked <small>${AN.why.length} drivers</small></h4>${list(AN.why,n2)}</div>
+      <div class="an-box"><h4>What could be improved <small>${AN.drags.length} drags</small></h4>${list(AN.drags,one,'bad')}</div>
+      <div class="an-box cream"><h4>What you should do next <small>${AN.next.length} actions</small></h4>${list(AN.next,n2,'go')}<p class="an-foot">From this video’s transcript and metrics.</p></div>
+      <div class="an-box"><h4>Transcript <small>${v.dur}</small></h4><div class="an-tr"><span>0:00</span><mark>${esc(AN.tr)}</mark></div></div></div>
+    <div id="tHook" style="display:none"><div class="an-box an-hook"><span class="ht"><img src="${img(v,'t')}" alt=""><small>0:00</small></span><div><b>“${esc(AN.hook)}”</b><div class="an-pat">${AN.pat.map(p=>`<span>${esc(p)}</span>`).join('')}</div></div></div>
+      <button class="an-copy" type="button" data-copy="${esc(AN.hook)}">⧉ Copy hook for a brief</button>
+      <div class="an-box"><h4>Why it stops the scroll <small>${AN.stop.length} reasons</small></h4>${list(AN.stop,one)}</div>
+      <div class="an-box"><h4>How the first three seconds are built</h4><div class="an-bar"><i style="flex:3;background:#9a6b00"></i><i style="flex:4;background:#e0b44a"></i><i style="flex:3;background:#f0d89a"></i></div>${AN.beats.map(b=>`<div class="an-bt"><span>${b[0]}</span><div><h5>${esc(b[1])}</h5><p>${esc(b[2])}</p></div></div>`).join('')}</div>
+      <div class="an-box cream"><h4>Swipe this hook <small>${AN.swipe.length} rewrites</small></h4>${AN.swipe.map(s=>`<div class="an-rw"><span><small>${esc(s[0])}</small>${esc(s[1])}</span><button type="button" data-copy="${esc(s[1])}">Copy</button></div>`).join('')}<p class="an-foot">Structure lifted from this video’s opening.</p></div></div></div>`;
   $('#ro').innerHTML=`<div class="an">${side}${right}</div>`;
-  go('s4');
+  const tabs=$('#roTabs');if(tabs)tabs.onclick=e=>{const b=e.target.closest('button');if(!b)return;tabs.querySelectorAll('button').forEach(x=>x.classList.toggle('on',x===b));
+    $('#tWhy').style.display=b.dataset.t==='why'?'':'none';$('#tHook').style.display=b.dataset.t==='hook'?'':'none'};
+  if(!$('#s4').classList.contains('on'))go('s4');
 }
 document.addEventListener('click',e=>{const b=e.target.closest('[data-copy]');if(!b)return;try{navigator.clipboard.writeText(b.dataset.copy)}catch(x){}const t=b.textContent;b.textContent='Copied';setTimeout(()=>b.textContent=t,1200)});
 
